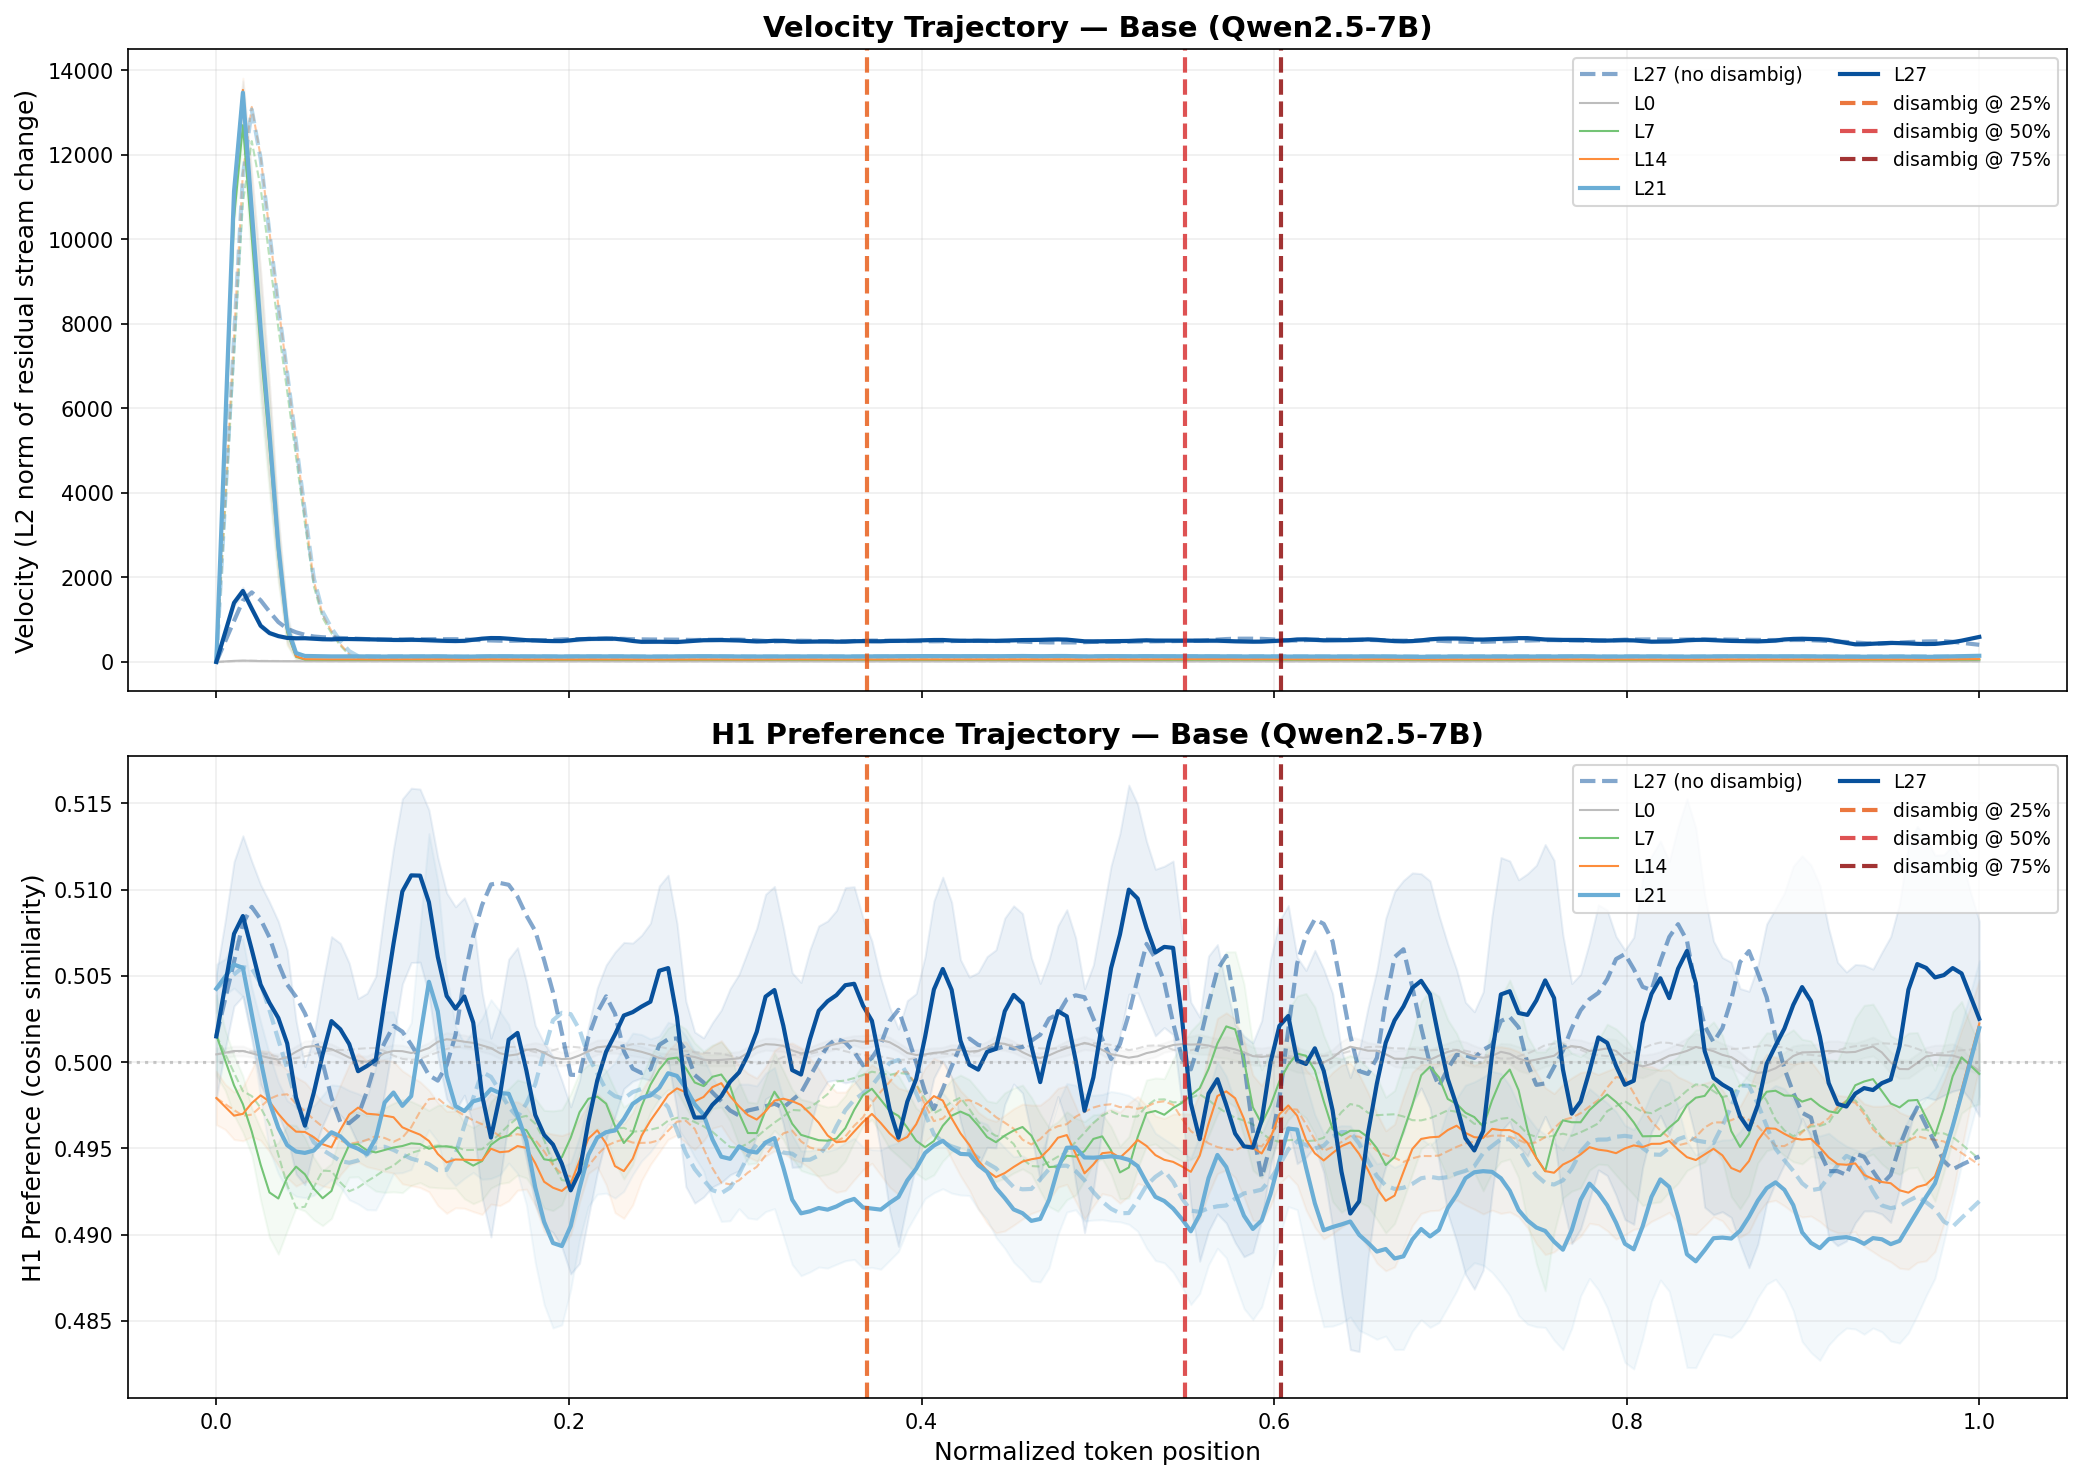
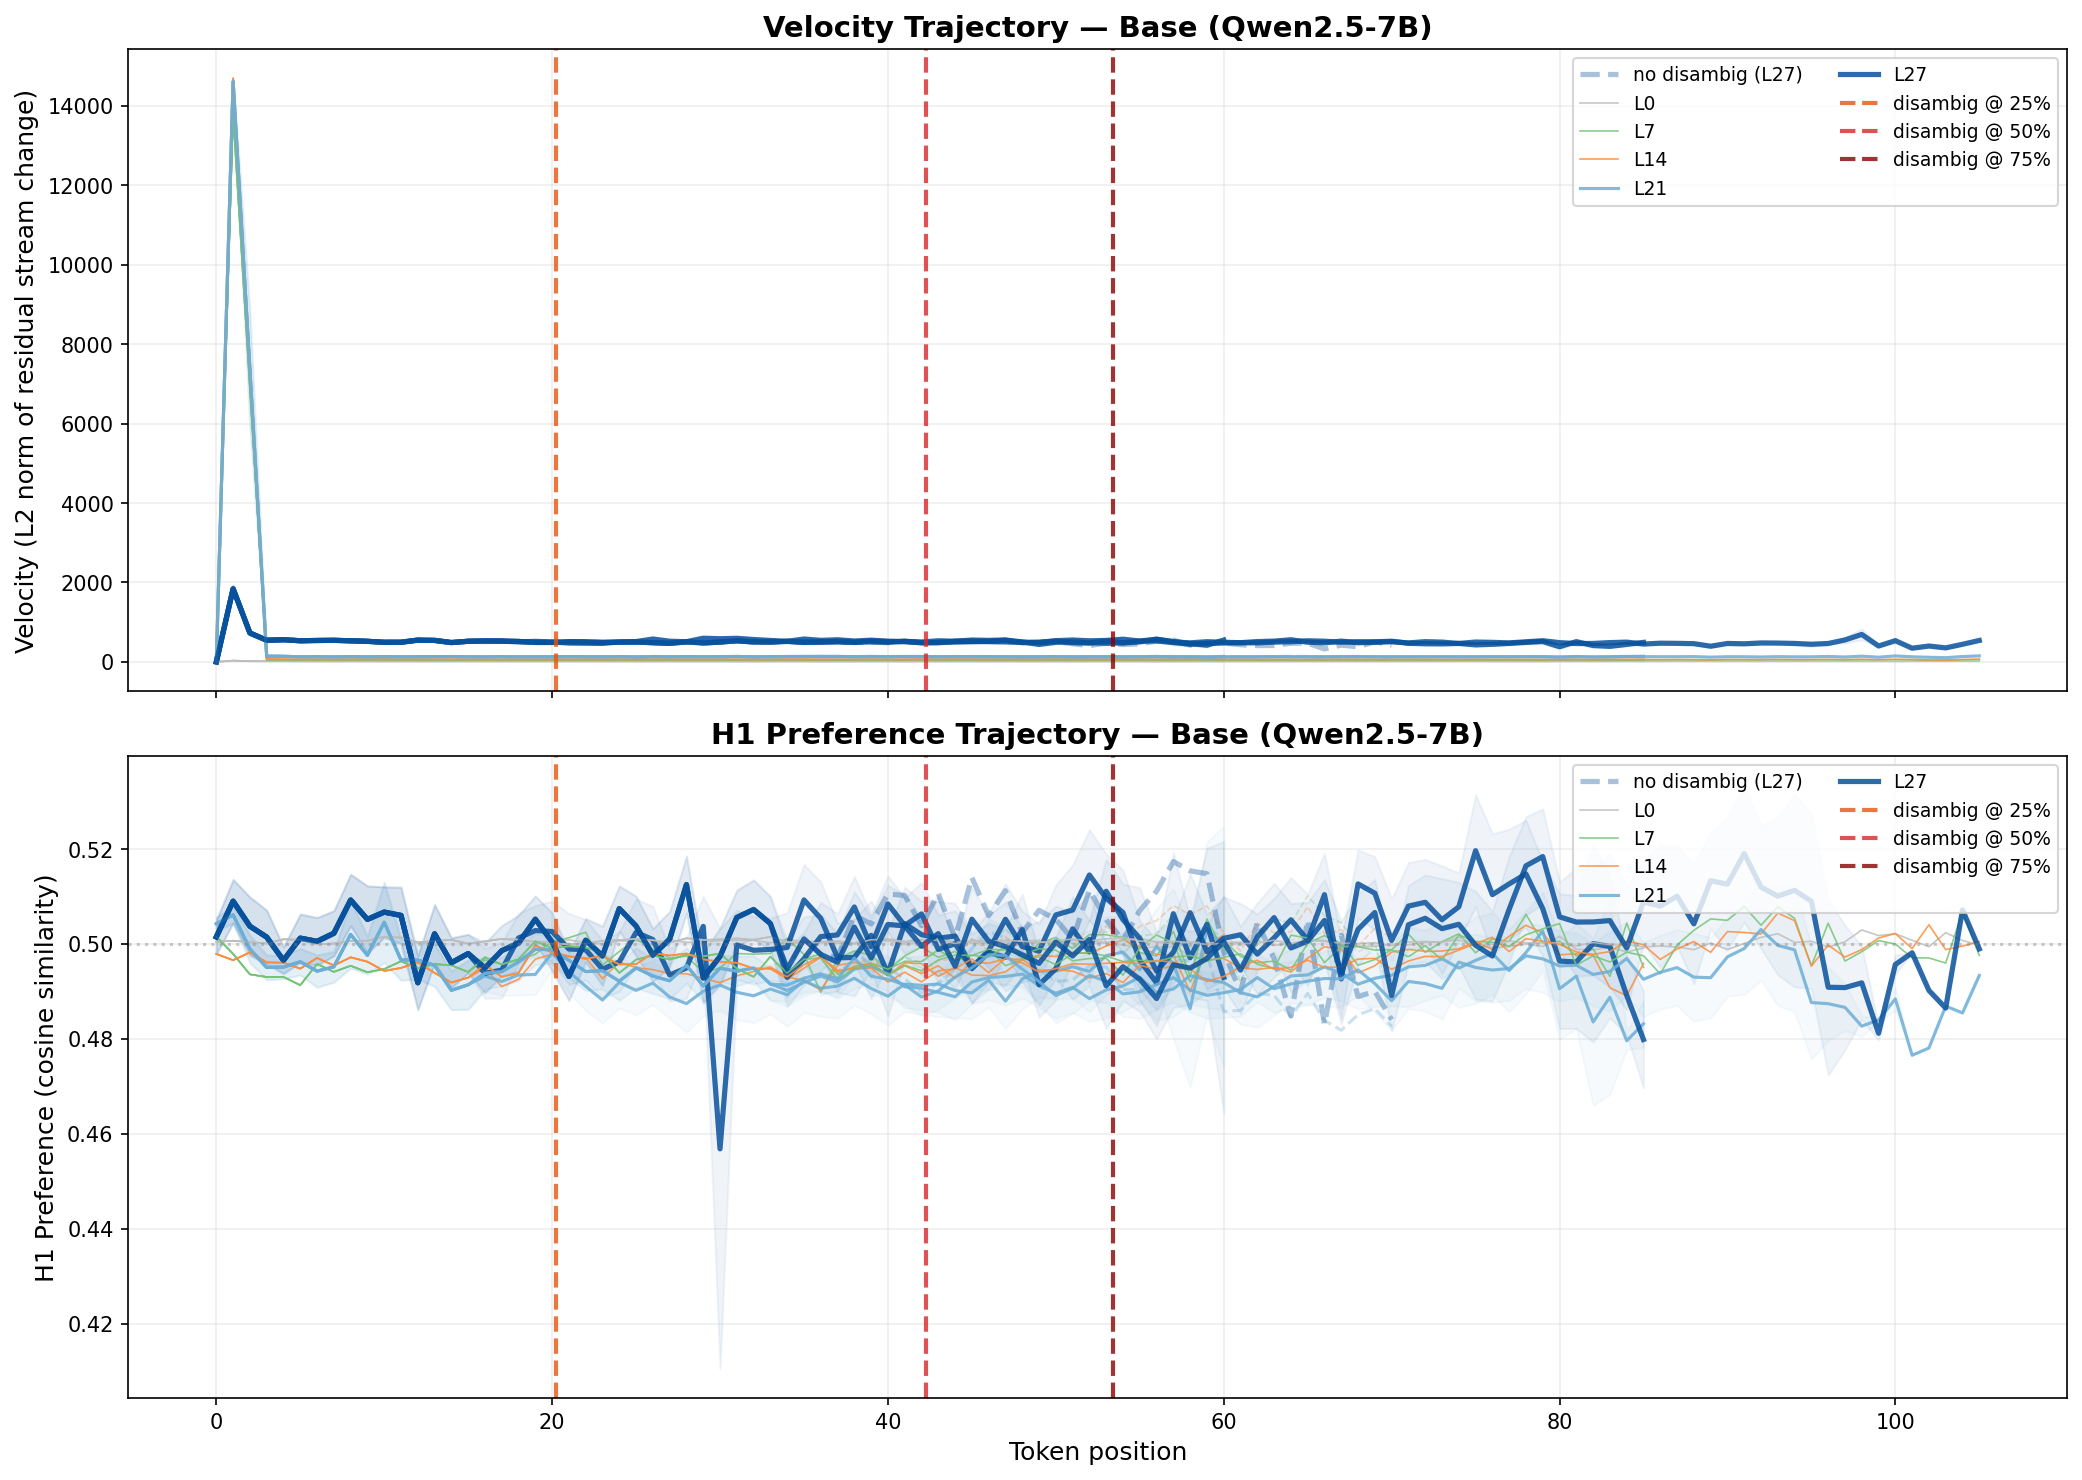
Update combined plots: raw token positions, all conditions overlaid
Shorter conditions (25%) end early naturally. Each condition's trajectory
plotted in raw token space with matching vertical disambig line.

diff --git a/experiments/plotting/plot_disambig_combined.py b/experiments/plotting/plot_disambig_combined.py
@@ -1,7 +1,8 @@
 #!/usr/bin/env python3
 """
 Combined disambiguation plot: velocity and preference trajectories with
-vertical lines marking each disambiguation point.
+vertical lines marking each disambiguation point. Raw token positions,
+all conditions overlaid (shorter ones end early).
 
 Usage:
     python plot_disambig_combined.py --results-dir results/natural_disambig_pilot
@@ -20,6 +21,7 @@ sys.path.insert(0, str(Path(__file__).parent.parent.parent))
 LAYER_COLORS = {0: "#bdbdbd", 7: "#74c476", 14: "#fd8d3c", 21: "#6baed6", 27: "#08519c"}
 DISAMBIG_COLORS = {"disambig_25pct": "#e6550d", "disambig_50pct": "#d62728", "disambig_75pct": "#8b0000"}
 DISAMBIG_LABELS = {"disambig_25pct": "25%", "disambig_50pct": "50%", "disambig_75pct": "75%"}
+COND_LINESTYLES = {"disambig_25pct": "-", "disambig_50pct": "-", "disambig_75pct": "-", "no_disambig": "--"}
 
 
 def load_arm(results_dir: Path, arm: str):
@@ -30,95 +32,107 @@ def load_arm(results_dir: Path, arm: str):
     return results, config
 
 
-def resample_trajectories(trials, layer_str, metric, n_grid=200):
-    """Resample variable-length trajectories onto a common [0, 1] grid."""
-    grid = np.linspace(0, 1, n_grid)
-    resampled = []
+def average_trajectories_raw(trials, layer_str, metric):
+    """Average trajectories in raw token space. Returns (positions, mean, se)."""
+    trajs = []
     for t in trials:
         if t.get("error") is not None:
             continue
         traj = t["layers"][layer_str][metric]
-        n = len(traj)
-        if n < 3:
+        if len(traj) < 3:
             continue
-        x = np.linspace(0, 1, n)
-        interp = np.interp(grid, x, traj)
-        resampled.append(interp)
-    if not resampled:
-        return grid, np.full(n_grid, np.nan), np.full(n_grid, np.nan)
-    arr = np.array(resampled)
-    return grid, np.mean(arr, axis=0), np.std(arr, axis=0) / np.sqrt(len(arr))
+        trajs.append(np.array(traj, dtype=float))
+    if not trajs:
+        return np.array([]), np.array([]), np.array([])
+
+    # Pad shorter sequences with NaN to the max length
+    max_len = max(len(t) for t in trajs)
+    padded = np.full((len(trajs), max_len), np.nan)
+    for i, t in enumerate(trajs):
+        padded[i, :len(t)] = t
+
+    positions = np.arange(max_len)
+    mean = np.nanmean(padded, axis=0)
+    se = np.nanstd(padded, axis=0) / np.sqrt(np.sum(~np.isnan(padded), axis=0).clip(1))
+    return positions, mean, se
 
 
-def get_mean_disambig_frac(trials):
-    """Get mean fractional position of the disambig token."""
-    fracs = []
-    for t in trials:
-        pos = t.get("disambig_token_pos")
-        total = t.get("total_tokens")
-        if pos is not None and total is not None and total > 0:
-            fracs.append(pos / total)
-    return np.mean(fracs) if fracs else None
+def get_mean_disambig_pos(trials):
+    """Get mean raw token position of the disambig token."""
+    positions = [t["disambig_token_pos"] for t in trials
+                 if t.get("disambig_token_pos") is not None and t.get("error") is None]
+    return np.mean(positions) if positions else None
 
 
 def plot_combined(results, config, arm_label, output_path):
     layers = config["layers"]
     disambig_conds = ["disambig_25pct", "disambig_50pct", "disambig_75pct"]
-    n_grid = 200
+    all_conds = ["no_disambig"] + disambig_conds
 
     fig, axes = plt.subplots(2, 1, figsize=(14, 10), sharex=True)
     ax_vel, ax_pref = axes
 
-    # Use disambig_50pct as the "main" condition for trajectories (most data at each position).
-    # Also overlay no_disambig as baseline.
-    plot_conds = ["no_disambig", "disambig_50pct"]
-
-    for cond in plot_conds:
+    for cond in all_conds:
         if cond not in results:
             continue
         trials = results[cond]["trials"]
-        linestyle = "--" if cond == "no_disambig" else "-"
-        alpha_base = 0.5 if cond == "no_disambig" else 1.0
+        linestyle = COND_LINESTYLES.get(cond, "-")
+        is_baseline = cond == "no_disambig"
+        alpha_base = 0.35 if is_baseline else 0.85
 
         for layer in layers:
             ls = str(layer)
             color = LAYER_COLORS.get(layer, "gray")
+            lw = 2.5 if layer == 27 else (1.5 if layer == 21 else 0.8)
 
             # Velocity
-            grid, mean_v, se_v = resample_trajectories(trials, ls, "velocities", n_grid)
-            label = f"L{layer}" if cond != "no_disambig" else (f"L{layer} (no disambig)" if layer == layers[-1] else None)
-            ax_vel.plot(grid, mean_v, color=color, linewidth=2 if layer in [21, 27] else 1,
-                        linestyle=linestyle, alpha=alpha_base, label=label)
-            if cond != "no_disambig":
-                ax_vel.fill_between(grid, mean_v - se_v, mean_v + se_v, color=color, alpha=0.08)
+            pos, mean_v, se_v = average_trajectories_raw(trials, ls, "velocities")
+            if len(pos) == 0:
+                continue
+            # Only label once per layer (from the first disambig condition)
+            vel_label = None
+            if cond == "disambig_25pct":
+                vel_label = f"L{layer}"
+            elif is_baseline and layer == 27:
+                vel_label = "no disambig (L27)"
+            ax_vel.plot(pos, mean_v, color=color, linewidth=lw,
+                        linestyle=linestyle, alpha=alpha_base, label=vel_label)
+            if not is_baseline and layer in [21, 27]:
+                ax_vel.fill_between(pos, mean_v - se_v, mean_v + se_v, color=color, alpha=0.06)
 
             # Preference
-            grid, mean_p, se_p = resample_trajectories(trials, ls, "h1_preference", n_grid)
-            ax_pref.plot(grid, mean_p, color=color, linewidth=2 if layer in [21, 27] else 1,
-                         linestyle=linestyle, alpha=alpha_base, label=label)
-            if cond != "no_disambig":
-                ax_pref.fill_between(grid, mean_p - se_p, mean_p + se_p, color=color, alpha=0.08)
+            pos, mean_p, se_p = average_trajectories_raw(trials, ls, "h1_preference")
+            if len(pos) == 0:
+                continue
+            pref_label = None
+            if cond == "disambig_25pct":
+                pref_label = f"L{layer}"
+            elif is_baseline and layer == 27:
+                pref_label = "no disambig (L27)"
+            ax_pref.plot(pos, mean_p, color=color, linewidth=lw,
+                         linestyle=linestyle, alpha=alpha_base, label=pref_label)
+            if not is_baseline and layer in [21, 27]:
+                ax_pref.fill_between(pos, mean_p - se_p, mean_p + se_p, color=color, alpha=0.06)
 
-    # Vertical lines for each disambiguation point
+    # Vertical lines at mean disambig positions
     for cond in disambig_conds:
         if cond not in results:
             continue
-        frac = get_mean_disambig_frac(results[cond]["trials"])
-        if frac is None:
+        mean_pos = get_mean_disambig_pos(results[cond]["trials"])
+        if mean_pos is None:
             continue
         color = DISAMBIG_COLORS[cond]
         label = f"disambig @ {DISAMBIG_LABELS[cond]}"
-        ax_vel.axvline(x=frac, color=color, linestyle="--", linewidth=2, alpha=0.8, label=label)
-        ax_pref.axvline(x=frac, color=color, linestyle="--", linewidth=2, alpha=0.8, label=label)
+        ax_vel.axvline(x=mean_pos, color=color, linestyle="--", linewidth=2, alpha=0.8, label=label)
+        ax_pref.axvline(x=mean_pos, color=color, linestyle="--", linewidth=2, alpha=0.8, label=label)
 
-    # Formatting
     ax_vel.set_ylabel("Velocity (L2 norm of residual stream change)", fontsize=12)
     ax_vel.set_title(f"Velocity Trajectory — {arm_label}", fontsize=14, fontweight="bold")
     ax_vel.legend(fontsize=9, ncol=2, loc="upper right")
     ax_vel.grid(True, alpha=0.2)
 
     ax_pref.set_ylabel("H1 Preference (cosine similarity)", fontsize=12)
-    ax_pref.set_xlabel("Normalized token position", fontsize=12)
+    ax_pref.set_xlabel("Token position", fontsize=12)
     ax_pref.set_title(f"H1 Preference Trajectory — {arm_label}", fontsize=14, fontweight="bold")
     ax_pref.axhline(y=0.5, color="gray", linestyle=":", alpha=0.4)
     ax_pref.legend(fontsize=9, ncol=2, loc="upper right")
@@ -131,13 +145,13 @@ def plot_combined(results, config, arm_label, output_path):
 
 
 def plot_base_vs_instruct_combined(results_dir, output_path):
-    """Side-by-side base vs instruct with vertical disambig lines."""
+    """Side-by-side base vs instruct, raw token positions, all conditions overlaid."""
     base_results, base_config = load_arm(results_dir, "base")
     inst_results, inst_config = load_arm(results_dir, "instruct")
 
     layers = base_config["layers"]
     disambig_conds = ["disambig_25pct", "disambig_50pct", "disambig_75pct"]
-    n_grid = 200
+    all_conds = ["no_disambig"] + disambig_conds
 
     fig, axes = plt.subplots(2, 2, figsize=(20, 10), sharex=True)
 
@@ -148,43 +162,47 @@ def plot_base_vs_instruct_combined(results_dir, output_path):
         ax_vel = axes[0, col]
         ax_pref = axes[1, col]
 
-        # Plot disambig_50pct trajectories (solid) + no_disambig (dashed)
-        for cond in ["no_disambig", "disambig_50pct"]:
+        for cond in all_conds:
             if cond not in results:
                 continue
             trials = results[cond]["trials"]
-            ls_style = "--" if cond == "no_disambig" else "-"
-            alpha_base = 0.4 if cond == "no_disambig" else 1.0
+            linestyle = COND_LINESTYLES.get(cond, "-")
+            is_baseline = cond == "no_disambig"
+            alpha_base = 0.35 if is_baseline else 0.85
 
             for layer in layers:
                 ls = str(layer)
                 color = LAYER_COLORS.get(layer, "gray")
-                lw = 2.5 if layer == 27 else (1.8 if layer == 21 else 1)
+                lw = 2.5 if layer == 27 else (1.5 if layer == 21 else 0.8)
 
-                grid, mean_v, se_v = resample_trajectories(trials, ls, "velocities", n_grid)
-                label = f"L{layer}" if cond != "no_disambig" else None
-                ax_vel.plot(grid, mean_v, color=color, linewidth=lw,
-                            linestyle=ls_style, alpha=alpha_base, label=label)
-                if cond != "no_disambig" and layer in [21, 27]:
-                    ax_vel.fill_between(grid, mean_v - se_v, mean_v + se_v, color=color, alpha=0.1)
+                pos, mean_v, se_v = average_trajectories_raw(trials, ls, "velocities")
+                if len(pos) == 0:
+                    continue
+                label = f"L{layer}" if cond == "disambig_25pct" else None
+                ax_vel.plot(pos, mean_v, color=color, linewidth=lw,
+                            linestyle=linestyle, alpha=alpha_base, label=label)
+                if not is_baseline and layer in [21, 27]:
+                    ax_vel.fill_between(pos, mean_v - se_v, mean_v + se_v, color=color, alpha=0.06)
 
-                grid, mean_p, se_p = resample_trajectories(trials, ls, "h1_preference", n_grid)
-                ax_pref.plot(grid, mean_p, color=color, linewidth=lw,
-                             linestyle=ls_style, alpha=alpha_base, label=label)
-                if cond != "no_disambig" and layer in [21, 27]:
-                    ax_pref.fill_between(grid, mean_p - se_p, mean_p + se_p, color=color, alpha=0.1)
+                pos, mean_p, se_p = average_trajectories_raw(trials, ls, "h1_preference")
+                if len(pos) == 0:
+                    continue
+                ax_pref.plot(pos, mean_p, color=color, linewidth=lw,
+                             linestyle=linestyle, alpha=alpha_base, label=label)
+                if not is_baseline and layer in [21, 27]:
+                    ax_pref.fill_between(pos, mean_p - se_p, mean_p + se_p, color=color, alpha=0.06)
 
         # Vertical disambig lines
         for cond in disambig_conds:
             if cond not in results:
                 continue
-            frac = get_mean_disambig_frac(results[cond]["trials"])
-            if frac is None:
+            mean_pos = get_mean_disambig_pos(results[cond]["trials"])
+            if mean_pos is None:
                 continue
             color = DISAMBIG_COLORS[cond]
             label = f"disambig {DISAMBIG_LABELS[cond]}"
-            ax_vel.axvline(x=frac, color=color, linestyle="--", linewidth=2, alpha=0.8, label=label)
-            ax_pref.axvline(x=frac, color=color, linestyle="--", linewidth=2, alpha=0.8, label=label)
+            ax_vel.axvline(x=mean_pos, color=color, linestyle="--", linewidth=2, alpha=0.8, label=label)
+            ax_pref.axvline(x=mean_pos, color=color, linestyle="--", linewidth=2, alpha=0.8, label=label)
 
         ax_vel.set_title(f"Velocity — {arm_label}", fontsize=13, fontweight="bold")
         ax_vel.set_ylabel("Velocity" if col == 0 else "")
@@ -193,7 +211,7 @@ def plot_base_vs_instruct_combined(results_dir, output_path):
 
         ax_pref.set_title(f"H1 Preference — {arm_label}", fontsize=13, fontweight="bold")
         ax_pref.set_ylabel("H1 Preference" if col == 0 else "")
-        ax_pref.set_xlabel("Normalized token position", fontsize=11)
+        ax_pref.set_xlabel("Token position", fontsize=11)
         ax_pref.axhline(y=0.5, color="gray", linestyle=":", alpha=0.4)
         ax_pref.legend(fontsize=8, ncol=2, loc="upper right")
         ax_pref.grid(True, alpha=0.2)
@@ -214,13 +232,11 @@ def main():
     output_dir = results_dir / "plots"
     output_dir.mkdir(parents=True, exist_ok=True)
 
-    # Individual arm plots
     for arm, label in [("instruct", "Instruct (Qwen2.5-7B-Instruct)"),
                         ("base", "Base (Qwen2.5-7B)")]:
         results, config = load_arm(results_dir, arm)
         plot_combined(results, config, label, output_dir / f"{arm}_combined.png")
 
-    # Side-by-side comparison
     plot_base_vs_instruct_combined(results_dir, output_dir / "base_vs_instruct_combined.png")
 
     print(f"\nAll plots saved to {output_dir}")
